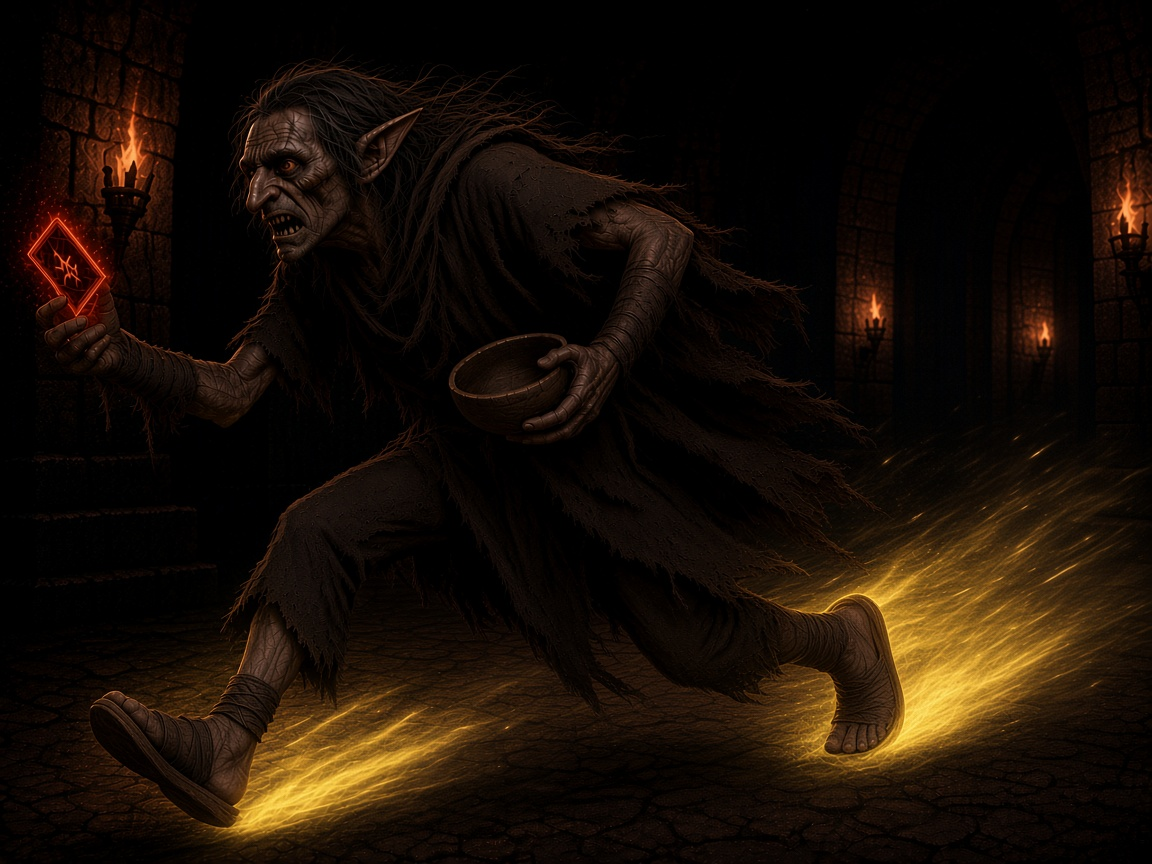
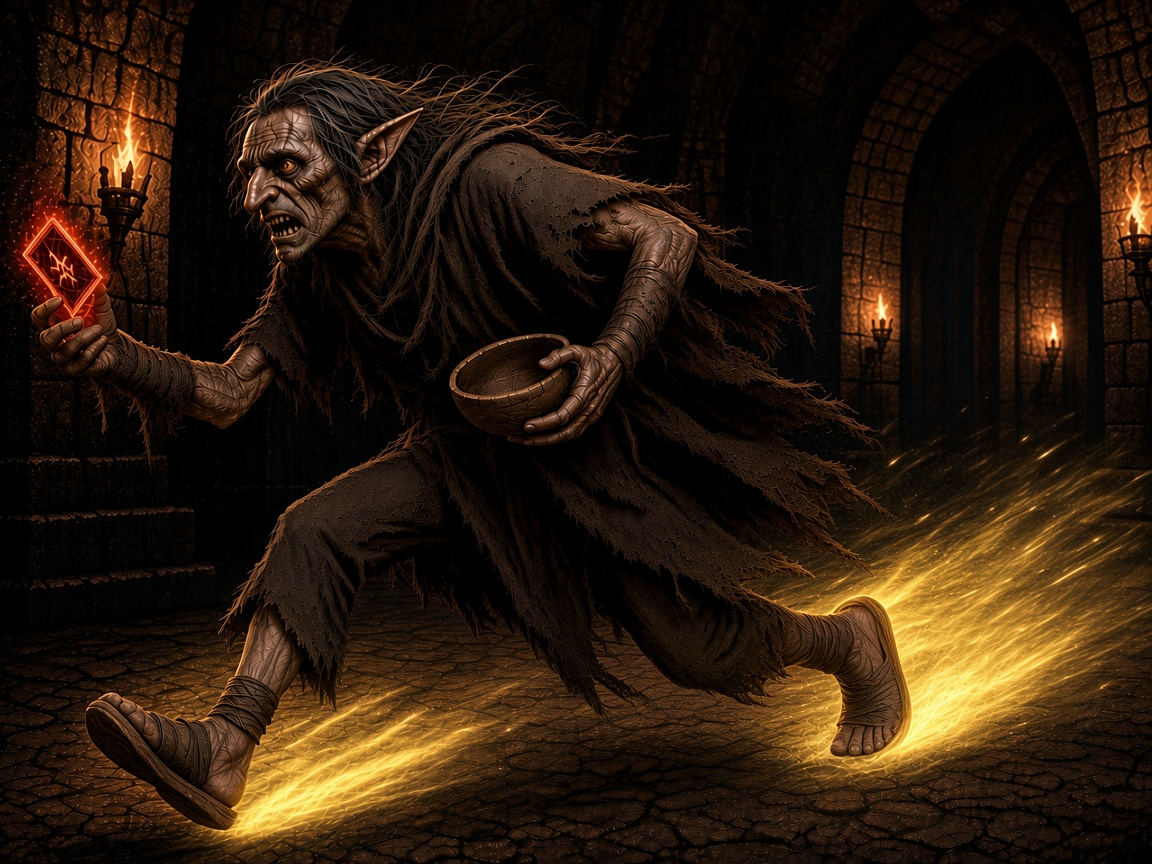
カード名を白字に黒縁にする。泥棒の絵と、敵の体力など試作に溜まっていた差分も公開する。

diff --git a/index.html b/index.html
@@ -5691,16 +5691,16 @@
       letter-spacing: 0.02em;
       line-height: 1;
       text-align: left;
-      color: #14110e;
+      color: #fffef8;
       padding-left: 0.45cqw;
       padding-right: 0.45cqw;
-      -webkit-text-stroke: 0.32cqw #fff;
+      -webkit-text-stroke: 0.32cqw #0a0806;
       paint-order: stroke fill;
       text-shadow:
-        0.22cqw 0 0 #fff,
-        -0.22cqw 0 0 #fff,
-        0 0.22cqw 0 #fff,
-        0 -0.22cqw 0 #fff;
+        0.22cqw 0 0 #0a0806,
+        -0.22cqw 0 0 #0a0806,
+        0 0.22cqw 0 #0a0806,
+        0 -0.22cqw 0 #0a0806;
     }
     .card .card-fit .text {
       position: absolute;
@@ -10882,7 +10882,7 @@
       ミノスの一撃: "card-minos.jpg?v=1",
       タウロスアタック: "card-tauros.jpg?v=1",
       ファイアパラダイス: "card-fireparadise-v2.jpg?v=1",
-      泥棒: "card-mushin.jpg?v=2",
+      泥棒: "card-mushin.jpg?v=3",
       "餌だ!!": "card-bait-v3.jpg?v=1",
       さぼる: "card-slack.jpg?v=2",
       弱者の意地: "card-spite-v4.jpg?v=1",
@@ -10974,8 +10974,8 @@
         tier: 1,
         rank: "雑魚",
         stature: "small",
-        hp: 40,
-        atkHidden: 2,
+        hp: 45,
+        atkHidden: 3,
         pattern: [
           { name: "アタック" },
           { name: "ブロック" },
@@ -10988,8 +10988,8 @@
         tier: 1,
         rank: "雑魚",
         stature: "small",
-        hp: 40,
-        atkHidden: 2,
+        hp: 45,
+        atkHidden: 3,
         pattern: [
           { name: "アタック" },
           { name: "ブロック" },
@@ -11002,8 +11002,8 @@
         tier: 1,
         rank: "雑魚",
         stature: "small",
-        hp: 40,
-        atkHidden: 2,
+        hp: 45,
+        atkHidden: 3,
         spd: 2,
         pattern: [
           { name: "アタック" },
@@ -11018,8 +11018,8 @@
         tier: 3,
         rank: "強敵",
         stature: "huge",
-        hp: 120,
-        atkHidden: 7,
+        hp: 130,
+        atkHidden: 8,
         trait: "体力が最大の半分以下になったとき、SPD+1する。",
         halfSpd: true,
         loot: { low: "minotaur-medal", high: "minotaur-bracelet" },
@@ -11038,8 +11038,8 @@
         tier: 2,
         rank: "普通",
         stature: "small",
-        hp: 55,
-        atkHidden: 3,
+        hp: 60,
+        atkHidden: 4,
         pattern: [
           { name: "アタック" },
           { name: "アタック" },
@@ -11053,7 +11053,7 @@
         tier: 2,
         rank: "普通",
         stature: "huge",
-        hp: 90,
+        hp: 100,
         atkHidden: 0,
         pattern: [
           { name: "アタック" },
@@ -11078,8 +11078,8 @@
         tier: 4,
         rank: "★★★★",
         stature: "huge",
-        hp: 160,
-        atkHidden: 8,
+        hp: 170,
+        atkHidden: 9,
         defHidden: 6,
         spd: 2,
         pattern: [
@@ -11370,7 +11370,7 @@
         battle: "girl-battle-v42.png?v=1",
         battleRatio: "3 / 4",
         defeat: "girl-defeat.jpg?v=17",
-        victory: "girl-victory.jpg?v=27",
+        victory: "girl-victory-2.jpg?v=2",
         bless: "event-bless-v10.jpg?v=1",
       },
     ];
@@ -16721,7 +16721,7 @@
     function endingFrame(win) {
       const sealed = runSheet && runSheet.sealed;
       const art = win
-        ? "girl-victory-2.jpg?v=1"
+        ? heroItem().victory
         : ((sealed && sealed.defeatArt) || (defeatSnap && defeatSnap.defeatArt) || heroItem().defeat);
       const banner = win ? "踏破" : "敗北";
       const finalStars = sealed ? Math.max(0, Number(sealed.stars) || 0) : 0;
@@ -18817,8 +18817,7 @@
             </div>
             <div class="ref-grid">
               ${sheetFig("girl-defeat.jpg?v=17", "敗北", "land-ref", "wide-land")}
-              ${sheetFig("girl-victory.jpg?v=27", "勝利", "land-ref", "wide-land")}
-              ${sheetFig("girl-victory-2.jpg?v=1", "勝利の2枚目候補", "land-ref", "wide-land")}
+              ${sheetFig("girl-victory-2.jpg?v=2", "勝利", "land-ref", "wide-land")}
             </div>
             <h3>ジョブ選択</h3>
             <div class="ref-grid">
